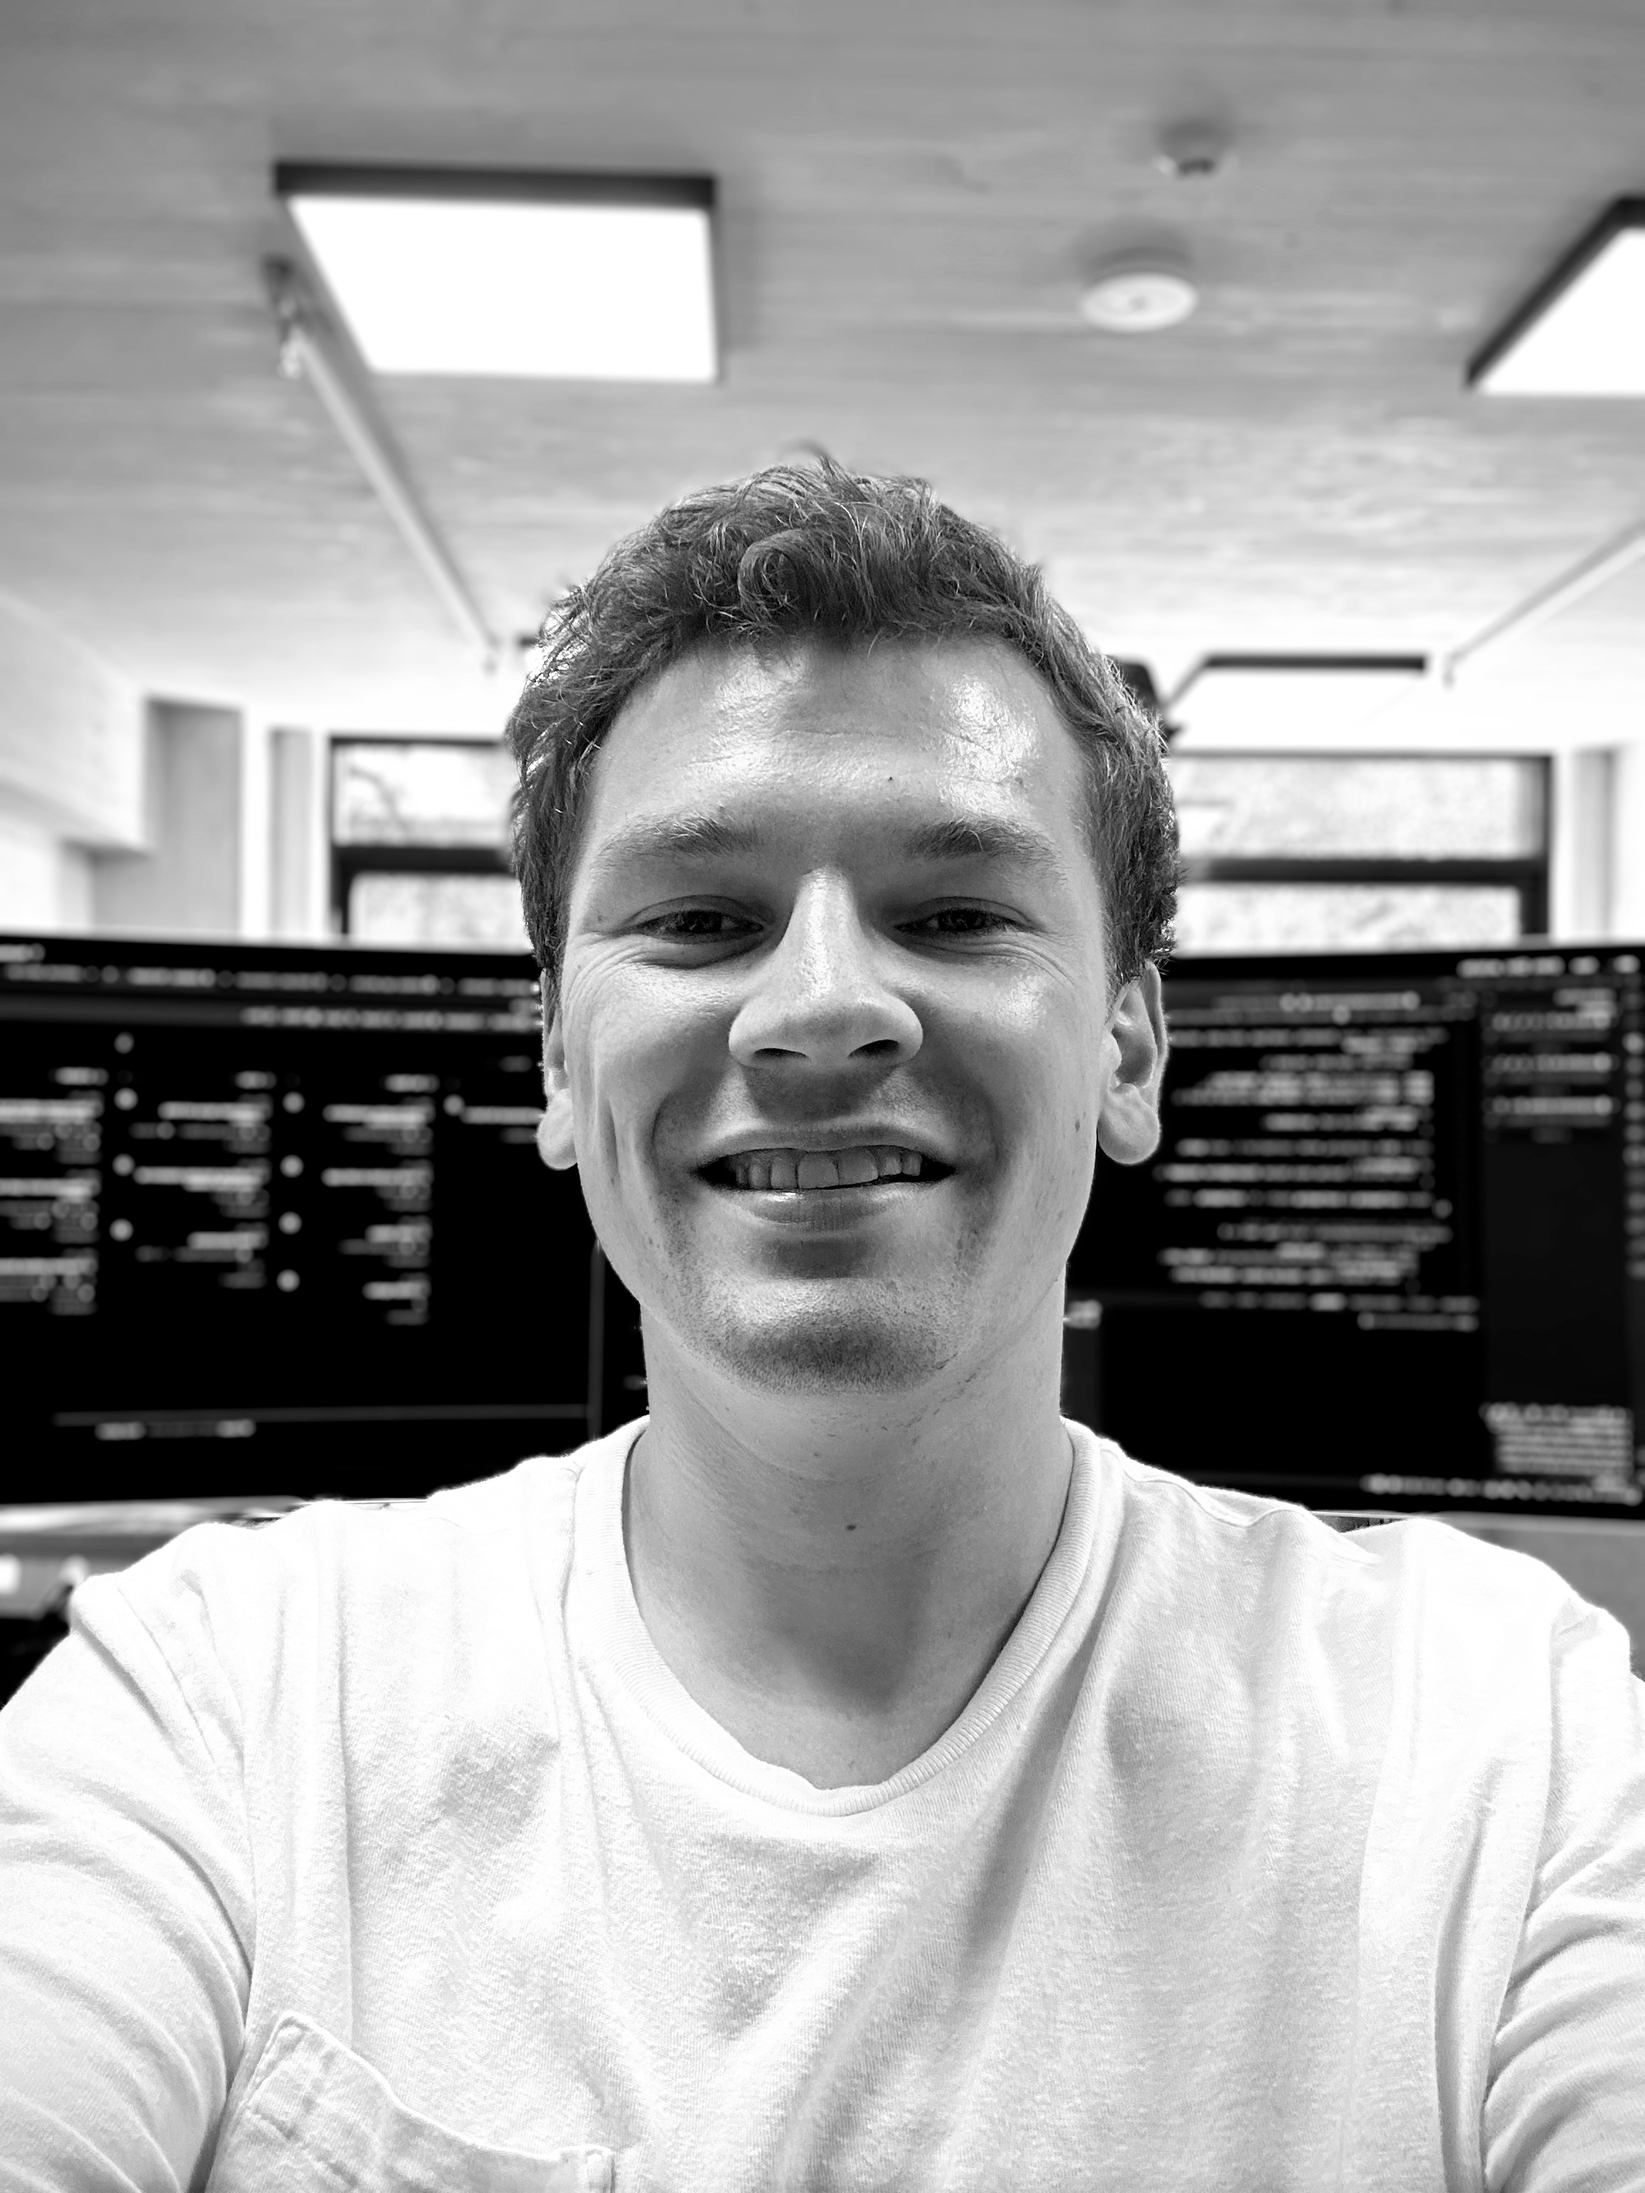
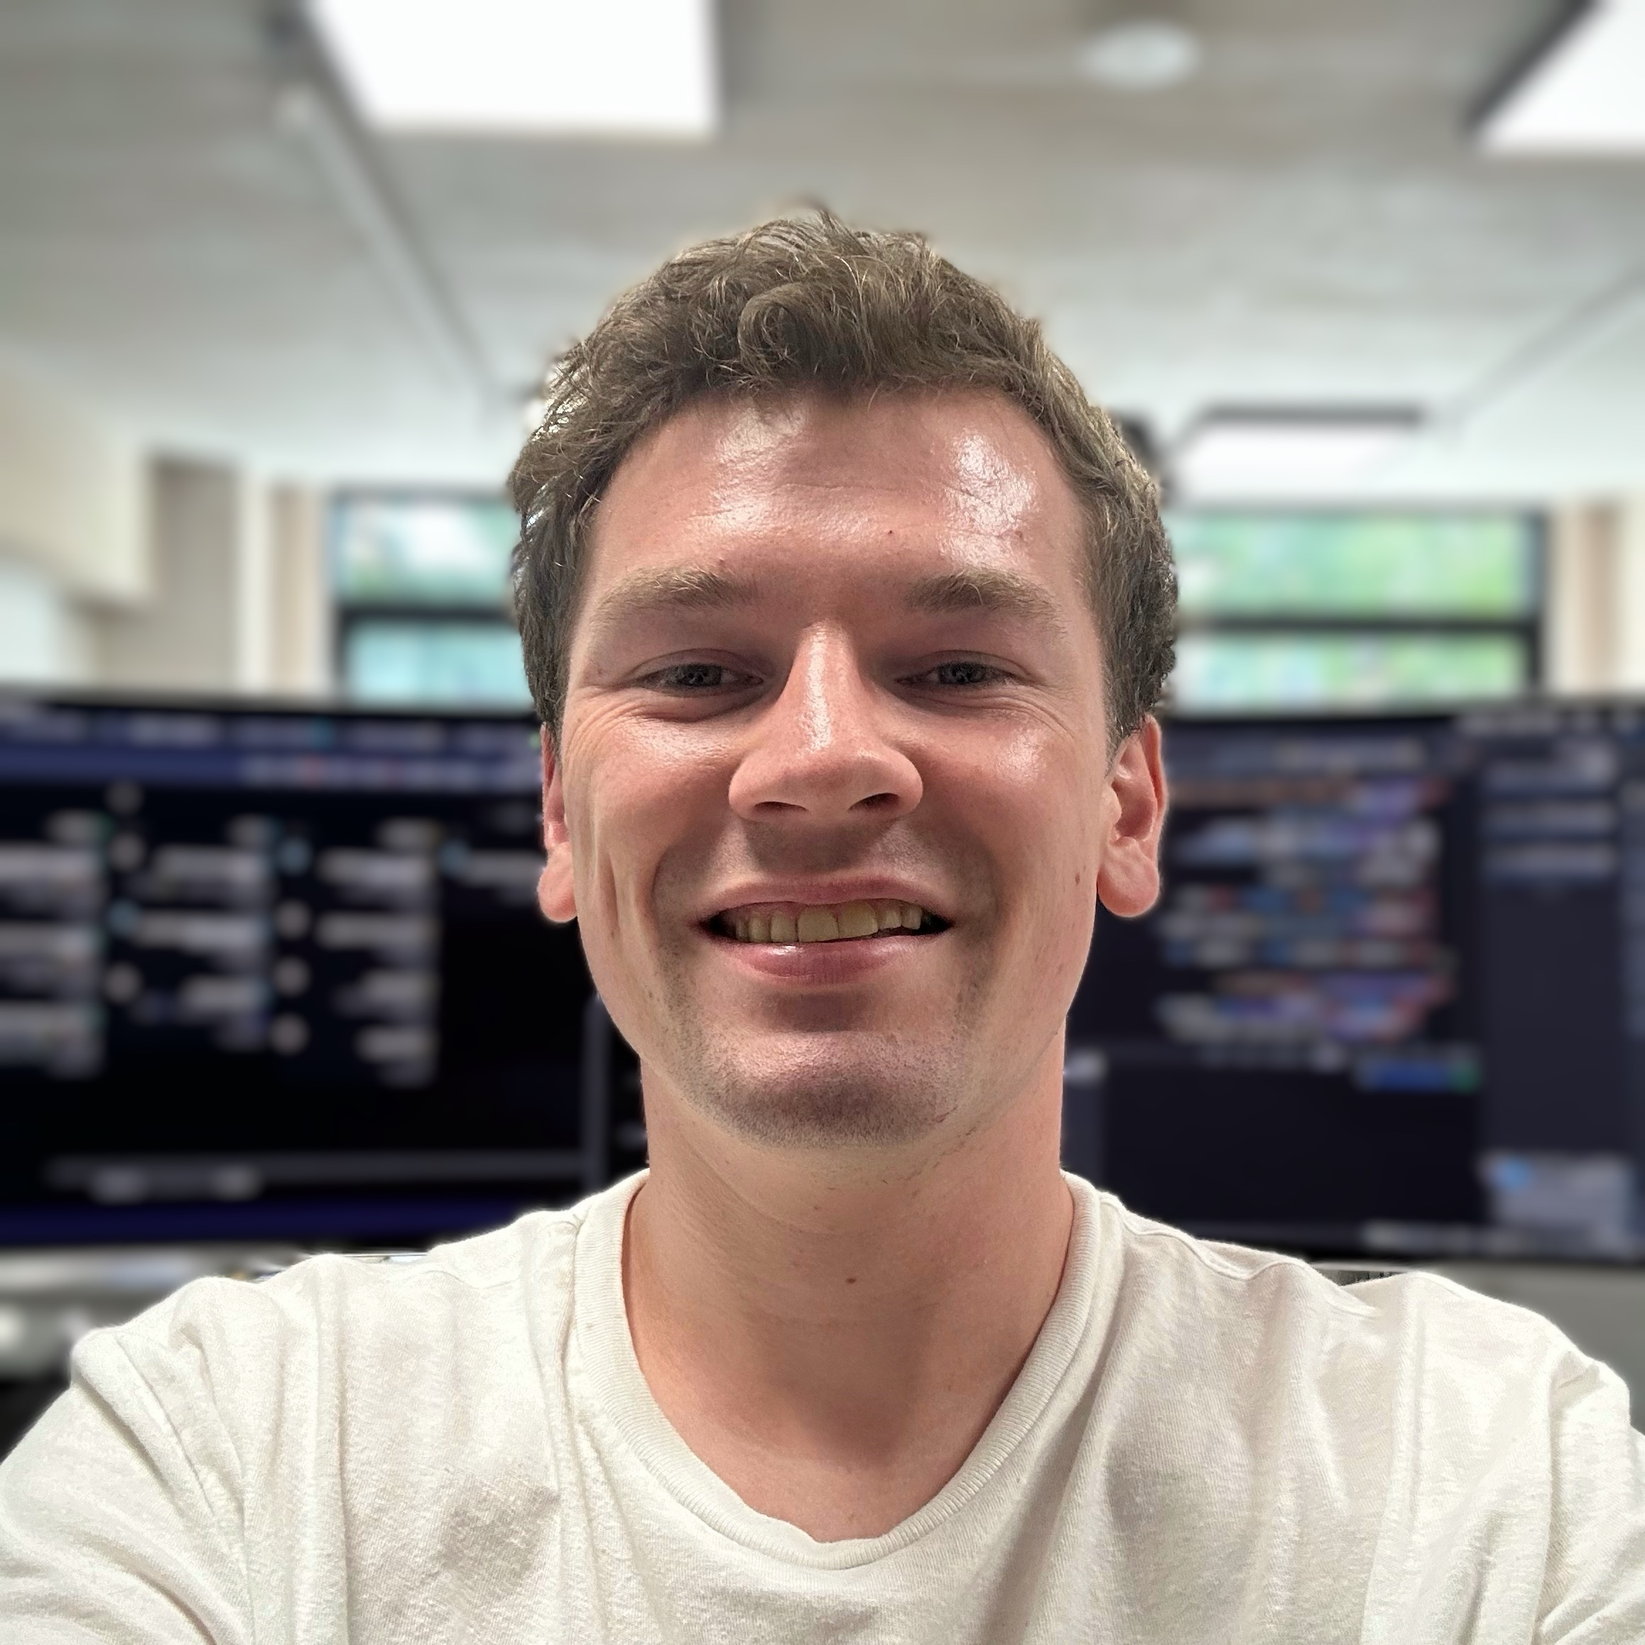
refactor: rebuild hero as a responsive grid layout

diff --git a/index.html b/index.html
@@ -25,38 +25,38 @@
 <body>
     <section class="hero">
         <div class="hero-area">
+            <div class="headshot-container">
+                <img class="headshot" src="src/img/profiler.jpg" alt="John Shields" width="240" height="240"
+                    loading="eager" decoding="async">
+            </div>
             <div class="hero-text">
                 <p>Hi, I'm</p>
                 <h1>John Shields.</h1>
             </div>
-            <div class="headshot-container">
-                <img class="headshot" src="src/img/profiler.jpg" alt="John Shields" width="240" height="240"
-                    loading="eager" decoding="async">
-                <div class="button-group">
-                    <a href="#about-me">
-                        <img loading="lazy" decoding="async"
-                            src="https://img.shields.io/badge/About%20Me-E05D44?style=for-the-badge&logo=readme&logoColor=white"
-                            alt="About Me">
-                    </a>
-                    <a href="#projects">
-                        <img loading="lazy" decoding="async"
-                            src="https://img.shields.io/badge/Projects-A7E3C3?style=for-the-badge&logo=jira&logoColor=000"
-                            alt="Projects">
-                    </a>
-                    <a href="https://github.com/johnshields" target="_blank" rel="noopener noreferrer"
-                        aria-label="GitHub - johnshields">
-                        <img loading="lazy" decoding="async"
-                            src="https://img.shields.io/badge/GitHub-512BD4?style=for-the-badge&logo=github&logoColor=white"
-                            alt="GitHub">
-                    </a>
-                    <a href="https://www.linkedin.com/in/johnshlds/" target="_blank" rel="noopener noreferrer"
-                        aria-label="LinkedIn - John Shields" class="hero-contact-link">
-                        <div class="custom-badge linkedin-badge">
-                            <i class="fa fa-linkedin" aria-hidden="true"></i>
-                            <span>LINKEDIN</span>
-                        </div>
-                    </a>
-                </div>
+            <div class="button-group">
+                <a href="#about-me">
+                    <img loading="lazy" decoding="async"
+                        src="https://img.shields.io/badge/About%20Me-E05D44?style=for-the-badge&logo=readme&logoColor=white"
+                        alt="About Me">
+                </a>
+                <a href="#projects">
+                    <img loading="lazy" decoding="async"
+                        src="https://img.shields.io/badge/Projects-A7E3C3?style=for-the-badge&logo=jira&logoColor=000"
+                        alt="Projects">
+                </a>
+                <a href="https://github.com/johnshields" target="_blank" rel="noopener noreferrer"
+                    aria-label="GitHub - johnshields">
+                    <img loading="lazy" decoding="async"
+                        src="https://img.shields.io/badge/GitHub-512BD4?style=for-the-badge&logo=github&logoColor=white"
+                        alt="GitHub">
+                </a>
+                <a href="https://www.linkedin.com/in/johnshlds/" target="_blank" rel="noopener noreferrer"
+                    aria-label="LinkedIn - John Shields" class="hero-contact-link">
+                    <div class="custom-badge linkedin-badge">
+                        <i class="fa fa-linkedin" aria-hidden="true"></i>
+                        <span>LINKEDIN</span>
+                    </div>
+                </a>
             </div>
         </div>
     </section>

diff --git a/src/styles.css b/src/styles.css
@@ -137,10 +137,27 @@ footer {
     margin: 0 auto;
     padding: 0 clamp(var(--space-4), 4vw, var(--space-12));
     display: grid;
-    grid-template-columns: 1fr;
-    justify-items: center;
-    text-align: center;
-    gap: var(--space-6);
+    grid-template-columns: auto 1fr;
+    grid-template-areas:
+        "photo text"
+        "photo buttons";
+    align-items: center;
+    column-gap: var(--space-8);
+    row-gap: var(--space-2);
+}
+
+.headshot-container {
+    grid-area: photo;
+}
+
+.hero-text {
+    grid-area: text;
+    align-self: end;
+    display: flex;
+    flex-direction: column;
+    min-width: 0;
+    gap: var(--space-1);
+    text-align: left;
 }
 
 .hero-text p {
@@ -152,11 +169,37 @@ footer {
     font-weight: 800;
 }
 
+.hero-area .button-group {
+    grid-area: buttons;
+    align-self: start;
+    --badge-h: clamp(30px, 2.4vw, 42px);
+    flex-wrap: wrap;
+    justify-content: flex-start;
+    gap: var(--space-2);
+}
+
+@media (min-width: 1100px) {
+    .hero-area .button-group {
+        flex-wrap: nowrap;
+    }
+}
+
+.hero-area .custom-badge {
+    font-size: clamp(11px, 1vw, 14px);
+    min-width: 0;
+    padding: 0 12px;
+    gap: 8px;
+    letter-spacing: 2px;
+}
+
+.hero-area .custom-badge i {
+    font-size: clamp(13px, 1.1vw, 16px);
+}
+
 .headshot {
-    width: clamp(140px, 24vw, 240px);
+    width: clamp(160px, 22vw, 220px);
     aspect-ratio: 1;
-    border-radius: 50%;
-    border: 4px solid var(--bg);
+    border-radius: var(--radius-sm);
     box-shadow: var(--shadow);
     object-fit: cover;
     margin: 0 auto;
@@ -167,6 +210,7 @@ footer {
     flex-direction: column;
     align-items: center;
     gap: var(--space-4);
+    flex: 0 0 auto;
 }
 
 .button-group {
@@ -606,11 +650,13 @@ h2 .header-icon {
     }
 
     .hero-area {
-        flex-direction: column;
+        grid-template-areas:
+            "photo text"
+            "buttons buttons";
         align-items: center;
-        text-align: center;
+        column-gap: var(--space-4);
+        row-gap: var(--space-4);
         padding: 0 20px;
-        display: flex;
     }
 
     .hero-text h1 {
@@ -622,15 +668,14 @@ h2 .header-icon {
     }
 
     .headshot {
-        width: 180px;
-        height: 180px;
-        border-radius: 50%;
+        width: 160px;
+        height: 160px;
         object-fit: cover;
-        margin: 0 auto;
+        margin: 0;
     }
 
-    .button-group {
-        justify-content: center;
+    .hero-area .button-group {
+        justify-content: flex-start;
         flex-wrap: wrap;
         gap: 10px;
         max-width: 325px;
@@ -684,6 +729,23 @@ h2 .header-icon {
 
 /* Mobile phones */
 @media (max-width: 600px) {
+    .hero-area {
+        gap: var(--space-3);
+    }
+
+    .headshot {
+        width: 90px;
+        height: 90px;
+    }
+
+    .hero-text h1 {
+        font-size: 26px;
+    }
+
+    .hero-text p {
+        font-size: 13px;
+    }
+
     .button-group a img {
         height: 28px;
     }
